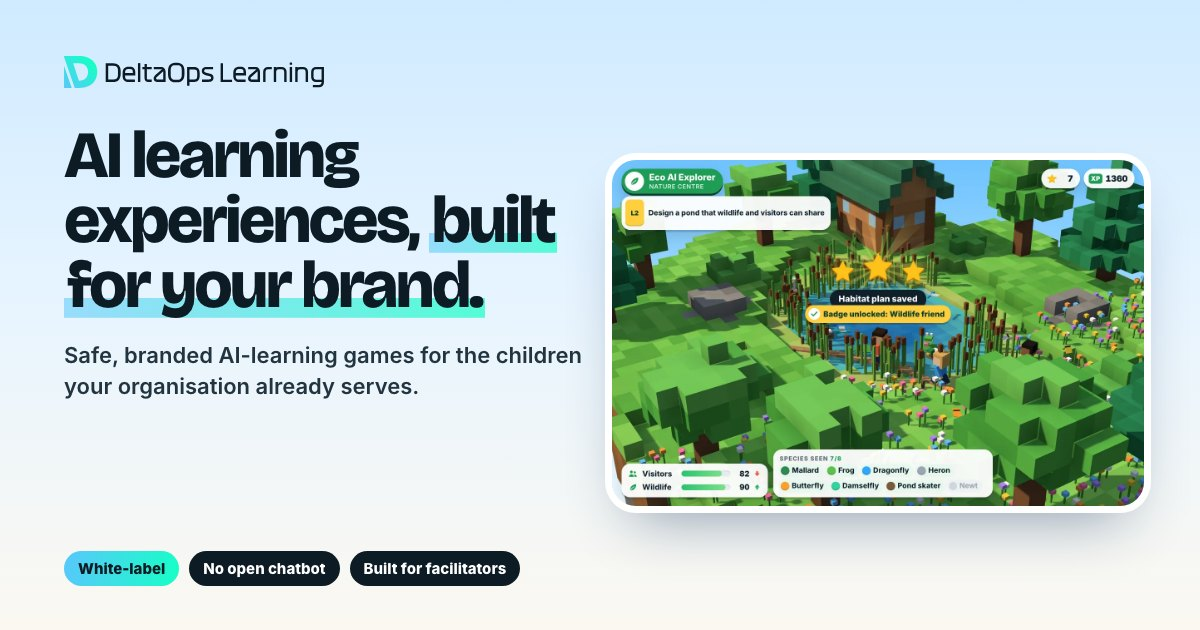
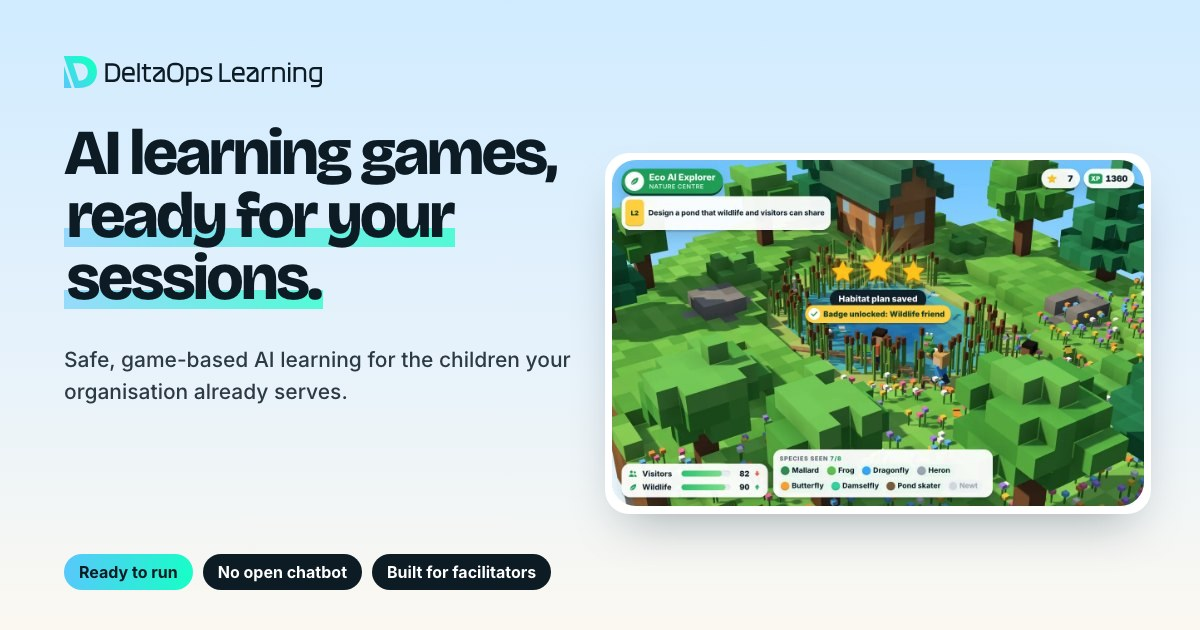
Drop white-label wording and update Arpan's team card
Remove partner-branding promises ("your logo", "your colours",
"branded", "White-label") from the page, meta, 404, README and
share image. New hero line: "AI learning games, ready for your
sessions." Arpan now appears first, with a new photo and bio.

diff --git a/index.html b/index.html
@@ -3,18 +3,18 @@
 <head>
 <meta charset="utf-8">
 <meta name="viewport" content="width=device-width, initial-scale=1">
-<title>Delta Learning | White-label AI learning experiences for children</title>
-<meta name="description" content="Create safe, branded AI-learning games and experiences for the children your organisation already serves. License, customise or co-create with Delta Learning.">
+<title>Delta Learning | Safe AI learning games for children</title>
+<meta name="description" content="Safe, game-based AI learning for the children your organisation already serves, ready for your own team to run.">
 <link rel="canonical" href="https://deltalearning.co/">
 <meta property="og:type" content="website">
 <meta property="og:site_name" content="Delta Learning">
 <meta property="og:url" content="https://deltalearning.co/">
-<meta property="og:title" content="AI learning experiences, built for your brand · Delta Learning">
-<meta property="og:description" content="Safe, branded AI-learning games for the children your organisation already serves. License, customise or co-create with Delta Learning.">
+<meta property="og:title" content="AI learning games, ready for your sessions · Delta Learning">
+<meta property="og:description" content="Safe, game-based AI learning for the children your organisation already serves, ready for your own team to run.">
 <meta property="og:image" content="https://deltalearning.co/img/og.jpg">
 <meta property="og:image:width" content="1200">
 <meta property="og:image:height" content="630">
-<meta property="og:image:alt" content="Delta Learning: AI learning experiences, built for your brand.">
+<meta property="og:image:alt" content="Delta Learning: AI learning games, ready for your sessions.">
 <meta property="og:locale" content="en_GB">
 <meta name="twitter:card" content="summary_large_image">
 <meta name="theme-color" content="#FBF8F1">
@@ -27,7 +27,7 @@
 <link rel="stylesheet" href="css/site.css">
 <link rel="stylesheet" href="css/game.css">
 <script type="application/ld+json">
-{"@context":"https://schema.org","@type":"Organization","name":"Delta Learning","url":"https://deltalearning.co/","logo":"https://deltalearning.co/assets/logo-learning.svg","description":"White-label AI learning experiences for organisations that work with children."}
+{"@context":"https://schema.org","@type":"Organization","name":"Delta Learning","url":"https://deltalearning.co/","logo":"https://deltalearning.co/assets/logo-learning.svg","description":"Safe, game-based AI learning for organisations that work with children."}
 </script>
 </head>
 <body>
@@ -36,7 +36,6 @@
   <defs>
     <symbol id="i-bolt" viewBox="0 0 24 24"><path d="M13 3 5.5 13.5H12L11 21l7.5-10.5H12z"/></symbol>
     <symbol id="i-check" viewBox="0 0 24 24"><circle cx="10.5" cy="10.5" r="6.5"/><path d="m15.5 15.5 5 5"/><path d="m7.8 10.6 1.9 1.9 3.4-3.6"/></symbol>
-    <symbol id="i-brush" viewBox="0 0 24 24"><path d="M20 4 10.5 13.5"/><path d="M9.8 14.2c-2.5-.6-4.6 1-4.8 3.2-.1 1.4-.9 2.3-2 2.6 2.6 1.5 7.4.9 7.9-2.6"/></symbol>
     <symbol id="i-game" viewBox="0 0 24 24"><path d="M7 7.5h10a4.5 4.5 0 0 1 4.4 5.5l-.8 3.6a2.4 2.4 0 0 1-4.1 1.1L14.4 15.5H9.6l-2.1 2.2a2.4 2.4 0 0 1-4.1-1.1L2.6 13A4.5 4.5 0 0 1 7 7.5z"/><path d="M7.5 10.5v3M6 12h3M15.5 11.5h.01M17.5 13h.01"/></symbol>
     <symbol id="i-cap" viewBox="0 0 24 24"><path d="m12 5 9.5 4.5L12 14 2.5 9.5z"/><path d="M6.5 11.5V16c1.5 1.4 3.4 2 5.5 2s4-.6 5.5-2v-4.5M21.5 9.5V15"/></symbol>
     <symbol id="i-plug" viewBox="0 0 24 24"><path d="M9 3v4M15 3v4M6.5 7h11v3.5a5.5 5.5 0 0 1-11 0zM12 16v5"/></symbol>
@@ -77,8 +76,8 @@
   <div class="hero-sky" aria-hidden="true"><i class="cube k1"></i><i class="cube k2"></i><i class="cube k3"></i></div>
   <div class="wrap hero-grid">
     <div class="hero-copy">
-      <h1 class="rise" style="--i:0">AI learning experiences, <span class="hl">built for your brand.</span></h1>
-      <p class="hero-sub rise" style="--i:1">Safe, game-based AI learning for the children you already serve, in your name and run by your own team.</p>
+      <h1 class="rise" style="--i:0">AI learning games, <span class="hl">ready for your sessions.</span></h1>
+      <p class="hero-sub rise" style="--i:1">Safe, game-based AI learning for the children you already serve, run by your own team.</p>
       <div class="cta-row rise" style="--i:2">
         <a class="btn" href="#contact">Book a partnership call <svg class="arr" aria-hidden="true"><use href="#i-arrow"/></svg></a>
         <a class="btn ghost" href="#demo">See an example</a>
@@ -91,9 +90,8 @@
         <div class="gw-load" aria-hidden="true"><span></span></div>
       </div>
       <p class="gw-cap"><button class="gw-pause" type="button" aria-pressed="false" data-pause><svg aria-hidden="true"><use href="#i-pause"/></svg><span class="sr">Pause the game preview</span></button><span>Fictional example: <b>Eco AI Explorer</b>, for a nature centre</span></p>
-      <div class="note n1" aria-hidden="true"><b>Your logo</b></div>
-      <div class="note n2" aria-hidden="true"><b>Your mission</b></div>
-      <div class="note n3" aria-hidden="true"><b>Your colours</b></div>
+      <div class="note n2" aria-hidden="true"><b>A clear mission</b></div>
+      <div class="note n3" aria-hidden="true"><b>AI that can guess wrong</b></div>
       <p class="sr" data-player-desc>Fictional example: Eco AI Explorer, for a nature centre. Children design a pond. Asked to make it &ldquo;nice&rdquo;, the AI helper cuts the reeds and the wildlife leaves. A clearer card adds a boardwalk and the wildlife returns.</p>
     </div>
   </div>
@@ -230,7 +228,7 @@
         <p class="eyebrow reveal">Examples</p>
         <h2 class="reveal">One platform. <span class="soft">Many learning worlds.</span></h2>
       </div>
-      <p class="lede reveal">The learning loop and safety controls stay the same. The story, objectives, branding and output become yours.</p>
+      <p class="lede reveal">The learning loop and safety controls stay the same. Each world brings its own story, missions and output.</p>
     </div>
 
     <div class="ws reveal" data-worlds>
@@ -245,7 +243,7 @@
             <canvas aria-hidden="true"></canvas>
             <div class="gw-load" aria-hidden="true"><span></span></div>
           </div>
-          <p class="gw-cap"><button class="gw-pause" type="button" aria-pressed="false" data-pause><svg aria-hidden="true"><use href="#i-pause"/></svg><span class="sr">Pause the game preview</span></button><span>Fictional brands. The engine is real and runs in our prototypes.</span></p>
+          <p class="gw-cap"><button class="gw-pause" type="button" aria-pressed="false" data-pause><svg aria-hidden="true"><use href="#i-pause"/></svg><span class="sr">Pause the game preview</span></button><span>Fictional examples. The engine is real and runs in our prototypes.</span></p>
         </div>
         <div class="ws-copy on" data-copy="stem">
           <span class="cap">For a STEM provider</span>
@@ -279,7 +277,7 @@
       <img class="pk-obj reveal" src="img/obj/chest.webp" alt="" width="320" height="320" loading="lazy">
     </div>
     <ul class="pk-list" data-stagger>
-      <li class="reveal" style="--c:#2bb673"><span class="slot"><svg aria-hidden="true"><use href="#i-brush"/></svg></span><div><b>Branded learner experience</b><span>Your name, look and tone on every screen.</span></div></li>
+      <li class="reveal" style="--c:#2bb673"><span class="slot"><svg aria-hidden="true"><use href="#i-play"/></svg></span><div><b>Ready-made game worlds</b><span>Start from our library of worlds, from energy to space.</span></div></li>
       <li class="reveal" style="--c:#e8a317"><span class="slot"><svg aria-hidden="true"><use href="#i-game"/></svg></span><div><b>Learning and game design</b><span>Missions, choices and outputs mapped to what you teach.</span></div></li>
       <li class="reveal" style="--c:#3f8cff"><span class="slot"><svg aria-hidden="true"><use href="#i-cap"/></svg></span><div><b>Facilitator package and training</b><span>Session plans, on-screen prompts and a full practice session for your team.</span></div></li>
       <li class="reveal" style="--c:#8a5cf6"><span class="slot"><svg aria-hidden="true"><use href="#i-plug"/></svg></span><div><b>Deployment and ongoing support</b><span>Device checks before launch, then updates from real sessions.</span></div></li>
@@ -316,12 +314,12 @@
     <div class="cred">
       <div class="people">
         <figure class="person reveal">
-          <img src="img/team/oliver.jpg" alt="Oliver Ramirez" width="360" height="450" loading="lazy">
-          <figcaption><b>Oliver Ramirez</b><span class="role">Co-Founder and CEO of DeltaOps, Head of Automation</span><span class="bio">11+ years across Amazon Prime Video, Henkel and DeltaOps. Has redesigned 100+ workflows and led automation programmes saving 5,000+ hours a year.</span><span class="badge">Google AI and Anthropic certified</span></figcaption>
+          <img src="img/team/arpan.jpg" alt="Arpan Bakshi and family" width="360" height="450" loading="lazy">
+          <figcaption><b>Arpan Bakshi</b><span class="role">Co-Founder of DeltaOps Learning, Head of Agentic Architecture</span><span class="bio">Father of two, co-founder of an AI training firm and former team lead at Foster + Partners, working in sustainable design, and strategic advisory.</span><span class="badge">Anthropic certified</span></figcaption>
         </figure>
         <figure class="person reveal">
-          <img src="img/team/arpan.jpg" alt="Arpan Bakshi" width="360" height="450" loading="lazy">
-          <figcaption><b>Arpan Bakshi</b><span class="role">Co-Founder of DeltaOps Learning, Head of Agentic Architecture</span><span class="bio">Former co-founder of an AI training firm and former team lead at Foster + Partners, working in sustainable design, energy modelling and computational design.</span><span class="badge">Anthropic certified</span></figcaption>
+          <img src="img/team/oliver.jpg" alt="Oliver Ramirez" width="360" height="450" loading="lazy">
+          <figcaption><b>Oliver Ramirez</b><span class="role">Co-Founder and CEO of DeltaOps, Head of Automation</span><span class="bio">11+ years across Amazon Prime Video, Henkel and DeltaOps. Has redesigned 100+ workflows and led automation programmes saving 5,000+ hours a year.</span><span class="badge">Google AI and Anthropic certified</span></figcaption>
         </figure>
       </div>
 

diff --git a/css/site.css b/css/site.css
@@ -138,8 +138,6 @@ h1 .hl { position:relative; -webkit-box-decoration-break:clone; box-decoration-b
 .gw-pause[aria-pressed="true"] svg { fill:var(--ink); stroke-width:1.5; }
 .note { position:absolute; z-index:4; pointer-events:none; font:800 13px/1 var(--sans); color:var(--ink); background:var(--sun); padding:8px 11px; border-radius:10px; box-shadow:0 3px 0 rgba(0,0,0,.14); rotate:-4deg; opacity:0; transition:opacity .5s, translate .5s var(--pop); translate:0 8px; }
 .note::after { content:""; position:absolute; width:26px; height:20px; border:2.5px solid var(--ink); border-color:var(--ink) transparent transparent var(--ink); border-radius:50% 0 0 0; }
-.note.n1 { left:6px; top:-46px; }
-.note.n1::after { left:22px; top:30px; rotate:-20deg; }
 .note.n2 { left:-86px; top:96px; background:#fff; rotate:3deg; }
 .note.n2::after { right:-22px; top:24px; rotate:150deg; }
 .note.n3 { right:150px; top:-46px; background:var(--mint); rotate:4deg; }

diff --git a/404.html b/404.html
@@ -23,7 +23,7 @@
   <img class="lost" src="/img/game/tile-world.webp" alt="" width="360" height="240">
   <p class="eyebrow">Page not found</p>
   <h1>This page has <span class="soft">moved on.</span></h1>
-  <p>Delta Learning now helps organisations launch branded AI-learning experiences for the children they serve. Everything is on the homepage.</p>
+  <p>Delta Learning now helps organisations bring safe, game-based AI learning to the children they serve. Everything is on the homepage.</p>
   <a class="btn light" href="/">Go to the homepage <svg class="arr" viewBox="0 0 24 24" aria-hidden="true"><path d="M4 12h15M13 6l6 6-6 6"/></svg></a>
 </main>
 </body>

diff --git a/README.md b/README.md
@@ -1,6 +1,6 @@
 # Delta Learning
 
-The website for [deltalearning.co](https://deltalearning.co): white-label AI learning experiences for organisations that work with children.
+The website for [deltalearning.co](https://deltalearning.co): safe, game-based AI learning for organisations that work with children.
 
 A static site with no build step and no third-party requests. Fonts and libraries are self-hosted, and there are no cookies, analytics or trackers.
 
